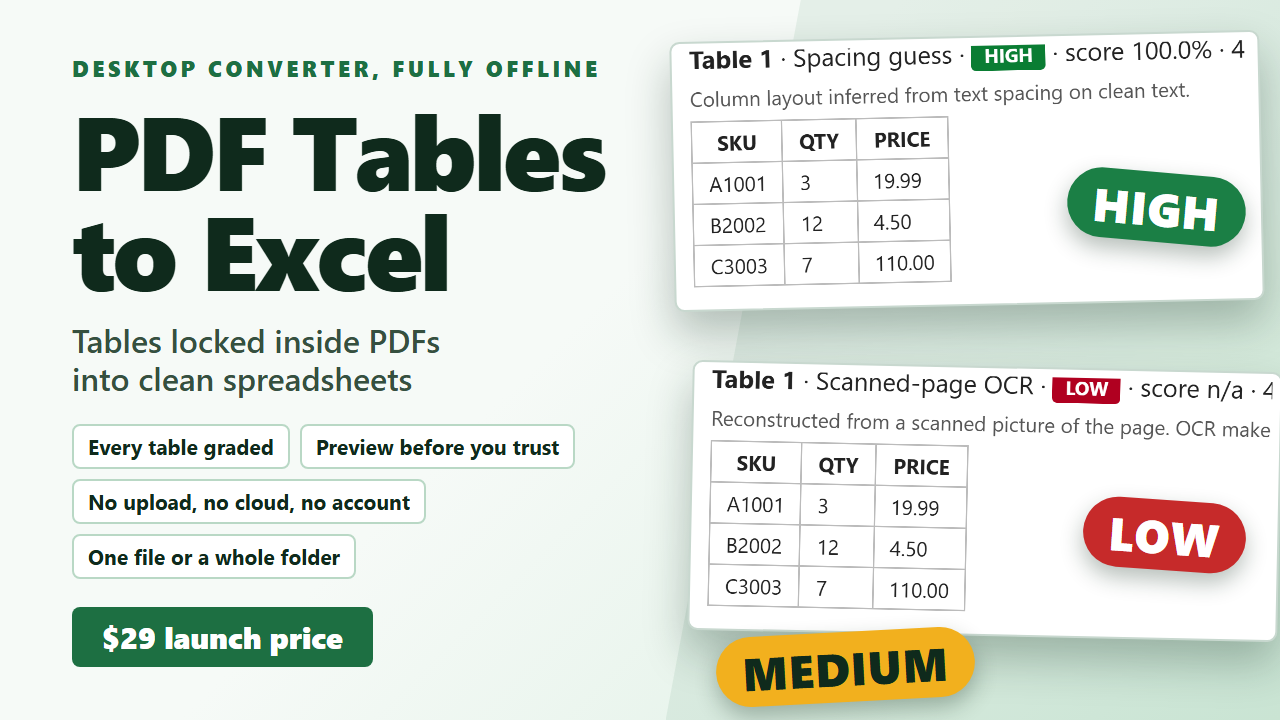
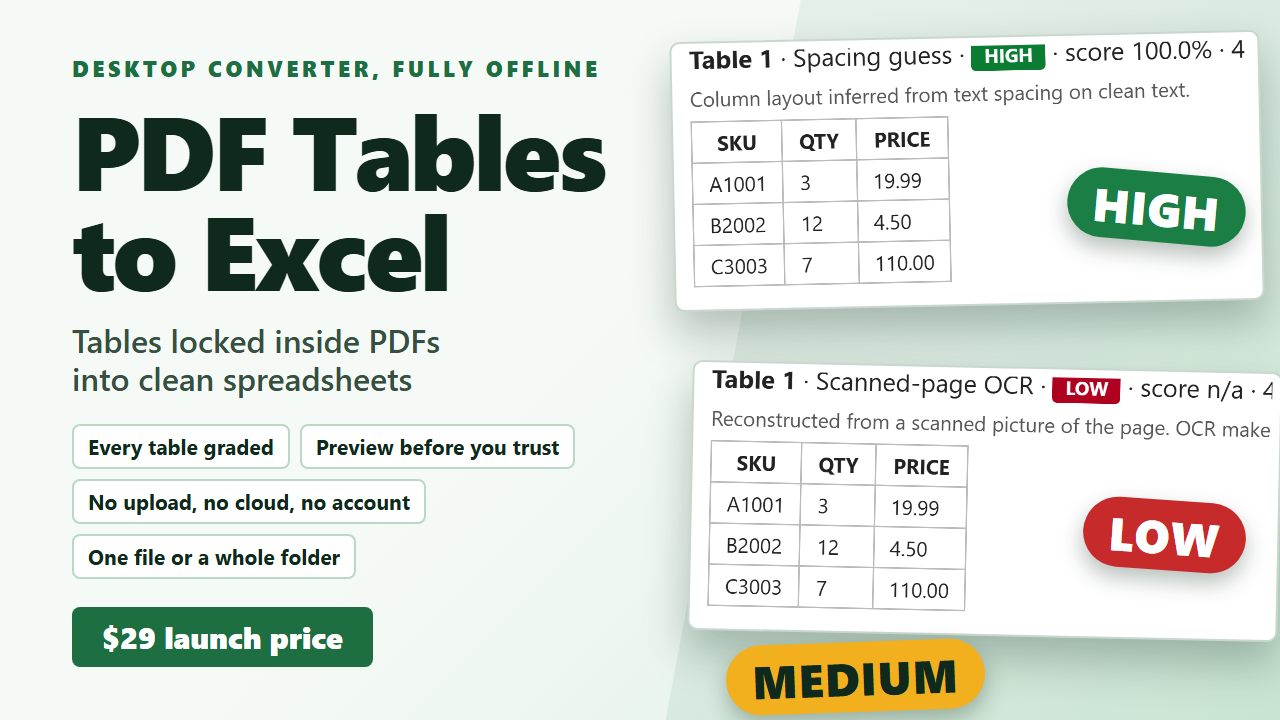
covers: O-017 grade pill clear of the table, itch DELIVERY.md names the 630x500 as the itch cover, tests/cover.test.mjs (facts, sizes, audit, verdict, 10-line delivery note for 16 covers)
Proof: node --test tests/cover.test.mjs -> pass 2 fail 0; node tools/audit.mjs designs/O-017/brief.json -> PASS; node tools/cover.mjs verdict O-017 -> PASS.

Changed region(s): [[0.5625, 0.8556, 0.7812, 1.0]]

diff --git a/designs/O-017/page.html b/designs/O-017/page.html
@@ -45,7 +45,7 @@
   .art .card.l { inset-inline-start: 24px; top: 366px; transform: rotate(1.2deg); }
   .art .pill { position: absolute; font-family: var(--font-display); font-weight: 900; font-size: 46px; line-height: 1; padding: 12px 26px; border-radius: 999px; box-shadow: 0 10px 22px rgba(15, 42, 28, 0.3); letter-spacing: 0.02em; }
   .art .ph { background: var(--high); color: var(--on-accent); inset-inline-end: 34px; top: 172px; transform: rotate(5deg); }
-  .art .pm { background: var(--med); color: var(--ink); inset-inline-start: 50px; top: 632px; transform: rotate(-3deg); }
+  .art .pm { background: var(--med); color: var(--ink); inset-inline-start: 60px; top: 642px; transform: rotate(-2deg); }
   .art .pl { background: var(--low); color: var(--on-accent); inset-inline-end: 34px; top: 500px; transform: rotate(4deg); }
   @media (max-width: 800px) {
     .art .card { width: 292px; padding: 5px; border-width: 1.5px; }

diff --git a/designs/O-017/art.css b/designs/O-017/art.css
@@ -6,7 +6,7 @@
   .art .card.l { inset-inline-start: 24px; top: 366px; transform: rotate(1.2deg); }
   .art .pill { position: absolute; font-family: var(--font-display); font-weight: 900; font-size: 46px; line-height: 1; padding: 12px 26px; border-radius: 999px; box-shadow: 0 10px 22px rgba(15, 42, 28, 0.3); letter-spacing: 0.02em; }
   .art .ph { background: var(--high); color: var(--on-accent); inset-inline-end: 34px; top: 172px; transform: rotate(5deg); }
-  .art .pm { background: var(--med); color: var(--ink); inset-inline-start: 50px; top: 632px; transform: rotate(-3deg); }
+  .art .pm { background: var(--med); color: var(--ink); inset-inline-start: 60px; top: 642px; transform: rotate(-2deg); }
   .art .pl { background: var(--low); color: var(--on-accent); inset-inline-end: 34px; top: 500px; transform: rotate(4deg); }
   @media (max-width: 800px) {
     .art .card { width: 292px; padding: 5px; border-width: 1.5px; }

diff --git a/designs/O-021/DELIVERY.md b/designs/O-021/DELIVERY.md
@@ -1,8 +1,8 @@
 # DELIVERY O-021: cover:itch/aeo-visibility-mini-check for factory
 1. Landing in factory: `products/marketing-studio/aeo-visibility-audit-kit/covers/from-design-studio/O-021/` (copy this whole folder; never edit a file outside from-design-studio/).
-2. `out.png` 1280x720 = itch.io cover; `out-630x500.png` = store card crop; `thumb-256.png` = readability proof at 256 px.
+2. `out-630x500.png` = the itch.io cover image (630x500); `out.png` 1280x720 = the 16:9 version for a banner or screenshot slot; `thumb-256.png` = readability proof at 256 px.
 3. Source: `page.html` + `tokens.css` + `assets/` (copies of the kit's own preview/ render of its probe banks (a 5-probe excerpt per category)); `assets.json` lists each picture.
 4. Gates: `brief.json`, `design-audit.json` (audit PASS), `DESIGN-REVIEW.md` (SHIP), `VERDICT.md` (five checks), `compare.png` (ours vs the cover to beat).
 5. Cover to beat: `C:/Users/me/Desktop/autonomous-factory/products/marketing-studio/aeo-visibility-audit-kit/preview/cover-630x500.png`; facts only from `C:/Users/me/Desktop/autonomous-factory/products/marketing-studio/aeo-visibility-audit-kit/listing/free-magnet/itch-free.md`.
-6. Adopt: commit these bytes in factory, then point the itch.io listing at `out.png` (card: `out-630x500.png`).
+6. Adopt: commit these bytes in factory, then set the itch.io cover image to `out-630x500.png` (banner or screenshot slot: `out.png`).
 7. Proof in factory: `git log -1 --format=%h -- products/marketing-studio/aeo-visibility-audit-kit/covers/from-design-studio/O-021/out.png`; here: `node tools/orders-check.mjs` and `node tools/audit.mjs designs/O-021/brief.json`.

diff --git a/designs/O-015/DELIVERY.md b/designs/O-015/DELIVERY.md
@@ -1,8 +1,8 @@
 # DELIVERY O-015: cover:itch/medieval-warriors-vol4 for factory
 1. Landing in factory: `products/character-animation-studio/medieval-warriors-vol4/covers/from-design-studio/O-015/` (copy this whole folder; never edit a file outside from-design-studio/).
-2. `out.png` 1280x720 = itch.io cover; `out-630x500.png` = store card crop; `thumb-256.png` = readability proof at 256 px.
+2. `out-630x500.png` = the itch.io cover image (630x500); `out.png` 1280x720 = the 16:9 version for a banner or screenshot slot; `thumb-256.png` = readability proof at 256 px.
 3. Source: `page.html` + `tokens.css` + `assets/` (copies of the product's own assets/frames/ sprite frames (64x64, transparent)); `assets.json` lists each picture.
 4. Gates: `brief.json`, `design-audit.json` (audit PASS), `DESIGN-REVIEW.md` (SHIP), `VERDICT.md` (five checks), `compare.png` (ours vs the cover to beat).
 5. Cover to beat: `C:/Users/me/Desktop/autonomous-factory/products/character-animation-studio/medieval-warriors-vol4/preview/cover.png`; facts only from `C:/Users/me/Desktop/autonomous-factory/products/character-animation-studio/medieval-warriors-vol4/listing/itch.md`.
-6. Adopt: commit these bytes in factory, then point the itch.io listing at `out.png` (card: `out-630x500.png`).
+6. Adopt: commit these bytes in factory, then set the itch.io cover image to `out-630x500.png` (banner or screenshot slot: `out.png`).
 7. Proof in factory: `git log -1 --format=%h -- products/character-animation-studio/medieval-warriors-vol4/covers/from-design-studio/O-015/out.png`; here: `node tools/orders-check.mjs` and `node tools/audit.mjs designs/O-015/brief.json`.

diff --git a/designs/O-020/DELIVERY.md b/designs/O-020/DELIVERY.md
@@ -1,8 +1,8 @@
 # DELIVERY O-020: cover:itch/aeo-visibility-audit-kit for factory
 1. Landing in factory: `products/marketing-studio/aeo-visibility-audit-kit/covers/from-design-studio/O-020/` (copy this whole folder; never edit a file outside from-design-studio/).
-2. `out.png` 1280x720 = itch.io cover; `out-630x500.png` = store card crop; `thumb-256.png` = readability proof at 256 px.
+2. `out-630x500.png` = the itch.io cover image (630x500); `out.png` 1280x720 = the 16:9 version for a banner or screenshot slot; `thumb-256.png` = readability proof at 256 px.
 3. Source: `page.html` + `tokens.css` + `assets/` (copies of the product's own preview/ renders of its kit files); `assets.json` lists each picture.
 4. Gates: `brief.json`, `design-audit.json` (audit PASS), `DESIGN-REVIEW.md` (SHIP), `VERDICT.md` (five checks), `compare.png` (ours vs the cover to beat).
 5. Cover to beat: `C:/Users/me/Desktop/autonomous-factory/products/marketing-studio/aeo-visibility-audit-kit/preview/cover-630x500.png`; facts only from `C:/Users/me/Desktop/autonomous-factory/products/marketing-studio/aeo-visibility-audit-kit/listing/itch.md`.
-6. Adopt: commit these bytes in factory, then point the itch.io listing at `out.png` (card: `out-630x500.png`).
+6. Adopt: commit these bytes in factory, then set the itch.io cover image to `out-630x500.png` (banner or screenshot slot: `out.png`).
 7. Proof in factory: `git log -1 --format=%h -- products/marketing-studio/aeo-visibility-audit-kit/covers/from-design-studio/O-020/out.png`; here: `node tools/orders-check.mjs` and `node tools/audit.mjs designs/O-020/brief.json`.

diff --git a/designs/O-022/DELIVERY.md b/designs/O-022/DELIVERY.md
@@ -1,8 +1,8 @@
 # DELIVERY O-022: cover:itch/ui-component-kit-generator for factory
 1. Landing in factory: `products/figma-ui-kit/ui-component-kit-generator/covers/from-design-studio/O-022/` (copy this whole folder; never edit a file outside from-design-studio/).
-2. `out.png` 1280x720 = itch.io cover; `out-630x500.png` = store card crop; `thumb-256.png` = readability proof at 256 px.
+2. `out-630x500.png` = the itch.io cover image (630x500); `out.png` 1280x720 = the 16:9 version for a banner or screenshot slot; `thumb-256.png` = readability proof at 256 px.
 3. Source: `page.html` + `tokens.css` + `assets/` (copies of the kit's own sample/ SVG components (byte copies)); `assets.json` lists each picture.
 4. Gates: `brief.json`, `design-audit.json` (audit PASS), `DESIGN-REVIEW.md` (SHIP), `VERDICT.md` (five checks), `compare.png` (ours vs the cover to beat).
 5. Cover to beat: `C:/Users/me/Desktop/autonomous-factory/products/figma-ui-kit/ui-component-kit-generator/preview/cover-od.png`; facts only from `C:/Users/me/Desktop/autonomous-factory/products/figma-ui-kit/ui-component-kit-generator/listing/itch.md`.
-6. Adopt: commit these bytes in factory, then point the itch.io listing at `out.png` (card: `out-630x500.png`).
+6. Adopt: commit these bytes in factory, then set the itch.io cover image to `out-630x500.png` (banner or screenshot slot: `out.png`).
 7. Proof in factory: `git log -1 --format=%h -- products/figma-ui-kit/ui-component-kit-generator/covers/from-design-studio/O-022/out.png`; here: `node tools/orders-check.mjs` and `node tools/audit.mjs designs/O-022/brief.json`.

diff --git a/designs/O-017/DELIVERY.md b/designs/O-017/DELIVERY.md
@@ -3,6 +3,6 @@
 2. `out.png` 1280x720 = Gumroad cover; `out-630x500.png` = store card crop; `thumb-256.png` = readability proof at 256 px.
 3. Source: `page.html` + `tokens.css` + `assets/` (copies of the tool's own demo/ preview pages); `assets.json` lists each picture.
 4. Gates: `brief.json`, `design-audit.json` (audit PASS), `DESIGN-REVIEW.md` (SHIP), `VERDICT.md` (five checks), `compare.png` (ours vs the cover to beat).
-5. Cover to beat: `C:/Users/me/Desktop/autonomous-factory/products/MEDIA-MANIFEST.jsonl`; facts only from `C:/Users/me/Desktop/autonomous-factory/packs/products/pdf-tables-excel/STORE_LISTING.md`.
+5. Cover to beat: `none`; facts only from `C:/Users/me/Desktop/autonomous-factory/packs/products/pdf-tables-excel/STORE_LISTING.md`.
 6. Adopt: commit these bytes in factory, then point the Gumroad listing at `out.png` (card: `out-630x500.png`).
 7. Proof in factory: `git log -1 --format=%h -- packs/products/pdf-tables-excel/covers/from-design-studio/O-017/out.png`; here: `node tools/orders-check.mjs` and `node tools/audit.mjs designs/O-017/brief.json`.

diff --git a/designs/O-017/DESIGN-REVIEW.md b/designs/O-017/DESIGN-REVIEW.md
@@ -6,7 +6,7 @@ Sample: C:\Users\me\Desktop\design-studio\designs\O-017\brief.json
 ## Score
 
 - [x] brief-complete: PDF Tables to Excel 1280x720
-- [x] render-exists: 1280x720 254550B
+- [x] render-exists: 1280x720 254913B
 - [x] audit-green: fresh auditBrief PASS
 - [x] contrast-aa: title:14.6, subtitle:8.4, cta:6.2, chip:15.3, kicker:5.9, pill-high:5.0, pill-med:8.0, pill-low:5.6
 - [x] thumbnail-legible: 20.8px at 256px (floor 12px), pixels in thumb-256.png 256x144 — human verdict: title reads at listing size
